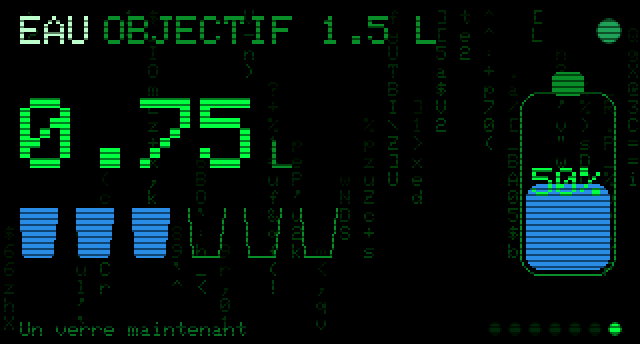
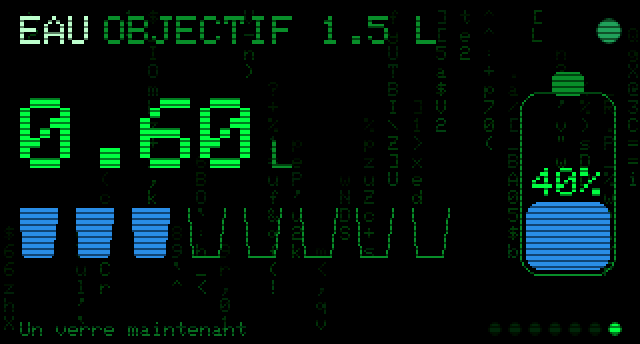
Rappel d'eau : verres de 200 ml, fond bleu Klein uni, sans cadre ni bulles

diff --git a/site/autonome.html b/site/autonome.html
@@ -276,12 +276,12 @@ if (code == 200 &amp;&amp; at) {
       </div>
       <figure class="diagram">
         <img src="assets/themes/claude-home.png" width="640" height="344" alt="Vue Home : MiniDisplay MiniAutomations, initiales en couleur d'accent, thème Claude Code" loading="lazy" style="width:100%;max-width:480px;height:auto;border-radius:10px">
-        <img src="assets/themes/claude-eau.png" width="640" height="344" alt="Vue Eau : 0,75 L bus, trois verres sur six, bouteille remplie à 50 %" loading="lazy" style="width:100%;max-width:480px;height:auto;border-radius:10px">
+        <img src="assets/themes/claude-eau.png" width="640" height="344" alt="Vue Eau : 0,6 L bus, trois verres sur huit, bouteille remplie à 40 %" loading="lazy" style="width:100%;max-width:480px;height:auto;border-radius:10px">
         <figcaption>La vue Home reprend le logo du site : M D M A se déploient en MiniDisplay MiniAutomations. La vue Eau suit l'objectif du jour.</figcaption>
       </figure>
-      <p><strong>Rappel d'eau.</strong> Objectif 1,5 L par jour, en six verres de 25 cl, de 9 h à 19 h : un verre toutes les 1 h 40. Le rappel ne sonne que si l'on est en retard sur ce rythme : un écran bleu passe alors par-dessus la vue en cours, avec une barre qui défile pendant la minute d'affichage, la LED clignote en bleu, et un appui note le verre. Sans réponse, le rappel s'efface au bout d'une minute et revient 20 minutes plus tard. Tout se règle dans <code>secrets.h</code> (<code>WATER_GOAL_ML</code>, <code>WATER_GLASS_ML</code>, <code>WATER_FROM_H</code>, <code>WATER_TO_H</code>).</p>
+      <p><strong>Rappel d'eau.</strong> Objectif 1,5 L par jour, en huit verres de 20 cl, de 9 h à 19 h : un verre toutes les 1 h 15. Le rappel ne sonne que si l'on est en retard sur ce rythme : un écran bleu passe alors par-dessus la vue en cours, avec une barre qui défile pendant la minute d'affichage, la LED clignote en bleu, et un appui note le verre. Sans réponse, le rappel s'efface au bout d'une minute et revient 20 minutes plus tard. Tout se règle dans <code>secrets.h</code> (<code>WATER_GOAL_ML</code>, <code>WATER_GLASS_ML</code>, <code>WATER_FROM_H</code>, <code>WATER_TO_H</code>).</p>
       <figure class="diagram">
-        <img src="assets/themes/annonce-water.png" width="640" height="344" alt="Rappel d'eau : écran bleu, grand verre et goutte en blanc, 250 ml à boire, 3 verres sur 6, barre de temps en bas" loading="lazy" style="width:100%;max-width:480px;height:auto;border-radius:10px">
+        <img src="assets/themes/annonce-water.png" width="640" height="344" alt="Rappel d'eau : écran bleu Klein, grand verre et goutte en blanc, 200 ml à boire, 3 verres sur 8, barre de temps en bas" loading="lazy" style="width:100%;max-width:480px;height:auto;border-radius:10px">
         <figcaption>Le rappel, sur le principe de l'annonce de commande : couleurs fixes quel que soit le thème.</figcaption>
       </figure>
       <div class="callout info">

diff --git a/tools/screensim/main.cpp b/tools/screensim/main.cpp
@@ -70,7 +70,7 @@ int main(int argc, char **argv) {
   net.upSinceMs = g_millis - (2 * 3600 + 14 * 60) * 1000UL;
   for (uint8_t i = 0; i < SRC_COUNT; i++) srcs[i] = { true, now - 60, false };
 
-  waterGlasses = 3;  // 0,75 L sur 1,5 L
+  waterGlasses = 3;  // 0,6 L sur 1,5 L
   waterDay = now / 86400;
   pomoEnter = g_millis - POMO_ARM_MS - (6 * 60 + 36) * 1000UL;  // Pomodoro : 18:24 restantes
   for (uint8_t t = 0; t < THEME_COUNT; t++) {
